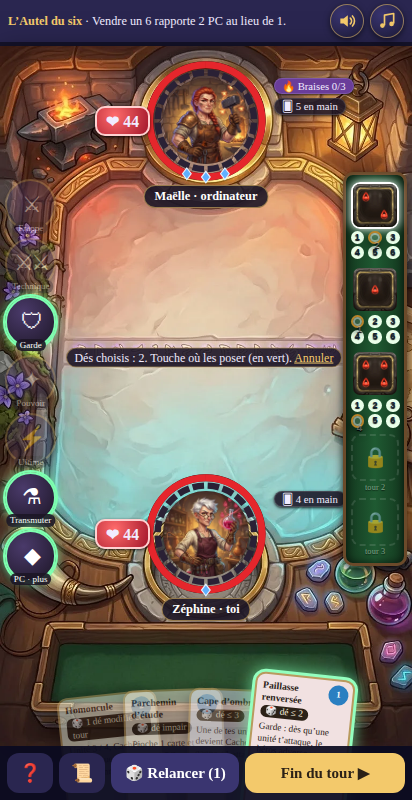
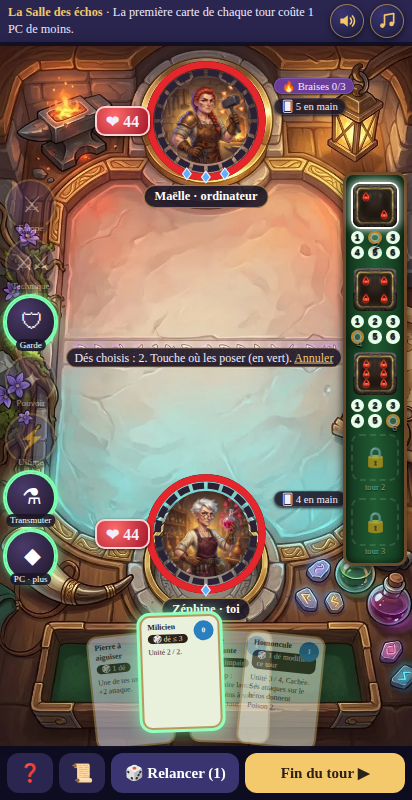
Guilde : main posée en entier dans le bac du bas ; prompt 7 (planche d'interface Gemini)

Changed region(s): [[0.1165, 0.75, 0.9029, 0.9375], [0.0, 0.0, 0.7573, 0.0625], [0.8447, 0.3438, 0.9903, 0.5625]]

diff --git a/essais/dice-arena/prompts-interface.html b/essais/dice-arena/prompts-interface.html
@@ -84,6 +84,20 @@ const P = [
    x:`Edit the attached image. Keep EXACTLY everything else the same: the same night sky with stars, the same glowing swirling cloud portal with the castle and the green land inside, the same mossy stone ruins, the same mountains and mist, the same colors, light and painting style, the same framing. Change only two things: 1) completely REMOVE every glowing rune symbol around the portal (all the anvils, leaves, flames, stars, waves, drops and sun symbols), and paint over them with the same sky, clouds and soft glow of the portal, so the portal is surrounded only by sky and soft light; 2) completely REMOVE the word START at the bottom and paint over it with the same mist and ruins. No text, no letters, no symbols, no logo, no signature, no watermark.` },
  { t:'2. Le monde de la Guilde : les lieux des modes', j:'Joignez le portrait final de Gorm (modèle de style).',
    x:`Using the attached image only as a strict style reference (same digital painted style, same soft outlines, same warm golden light with cool magical highlights, same level of detail), paint the MAIN HUB of a mobile fantasy card-and-dice game, tall vertical 9:16 format, seen from slightly above like a colorful storybook map. A vibrant, magical floating land with lush hills, glowing rune stones, waterfalls falling into the clouds and winding paths. Around a central plaza with a softly glowing rune portal, place FIVE clearly separated landmarks, well spaced so each can be tapped: a round stone dueling arena with glowing rune circles on its floor (upper left); a dark ruined dungeon gate carved into a cliff, with torches (upper right); a wooden flying airship with patched sails docked at a cliff edge (middle right); a tall slender library tower whose windows glow with floating cards (middle left); and, at the bottom, a small camp with a campfire and two empty banners, half hidden in soft mist. Above each landmark leave a little empty sky or ground for a label. Bright, colorful, joyful and epic, generous shapes, visible brush texture, readable on a phone. No text, no letters, no numbers, no logo, no signature, no watermark.` },
+ { t:'7. NOUVEAU (11/11) · La planche d’interface : médaillons d’action, cœur, cristal, bouclier, cadre du portrait', j:'Joignez votre plateau v2 (modèle de style) : https://demo-hub.elvanys.fr/essais/dice-arena/decor/plateau-duel-v2-essai1.jpg — Fichier attendu : interface-kit.jpg (Claude découpe chaque pièce).',
+   x:`Using the attached image only as a STYLE reference (same digital painted style, same carved stone, wood and gold, same warm golden light with violet and turquoise magic), paint a GAME UI KIT SHEET on a PLAIN PURE WHITE background, square format 1:1. Every element is SEPARATE, with a lot of white space around it, nothing touching, no shadow on the background, seen straight from the front, flat on the sheet. Arrange them in a clean grid:
+ROW 1 and ROW 2: EIGHT round ACTION MEDALLIONS, all exactly the same size and the same frame (a round carved grey stone disc with a thin gold rim, slightly domed), each with ONE engraved, glowing symbol in the middle, big and readable at small size:
+ 1. a single sword (strike), golden glow;
+ 2. three small swords in a rising row (combo), golden glow;
+ 3. a round shield (guard), cool blue glow;
+ 4. a four-pointed magic star (power), violet glow;
+ 5. a lightning bolt (ultimate), bright gold glow;
+ 6. an alchemy flask (special action), green glow;
+ 7. a faceted blue crystal (energy), blue glow;
+ 8. two clasped hands (team), warm glow.
+ROW 3: a glossy RUBY HEART gem with a small gold setting (life); a faceted BLUE CRYSTAL diamond shape with a small gold setting (energy points); a small steel and gold SHIELD badge (armor); a small blank dark violet RIBBON banner with gold edges (label).
+ROW 4: one large ornate ROUND PORTRAIT FRAME: a thick gold and carved stone ring with small rune stones set around it like a crown, the center completely EMPTY and pure white (a hero portrait goes there), the ring itself left fairly plain and dark in its middle band (the game draws its life and power gauges there).
+Symbols only, no text, no letters, no numbers, no logo, no signature, no watermark.` },
  { t:'5 ter. CORRECTION de votre 1er essai (11/11) : bac des dés pris dans le décor, rubans du bas retirés, 7 emplacements à gauche', j:'Joignez VOTRE essai : https://demo-hub.elvanys.fr/essais/dice-arena/decor/plateau-duel-v2-essai1.jpg — Fichier attendu : plateau-duel-v2.jpg',
    x:`Edit the attached image. Keep EXACTLY the same board: same framing, same camera angle, same painting style, same two round alcoves (top and bottom), same central play area with its line of glowing runes, same bottom card ledge, same corner props (anvil, lantern, horn, candle, flasks, rune stones), same colors. Make ONLY these changes:
 1. RIGHT SIDE: the green felt dice tray must not look like a separate box laid on top of the board. Rebuild it as part of the right wooden frame: the carved wood border widens and the tray is SUNK INTO it, like a long recessed channel carved in the frame, with the same carved gold trim and the same stone and wood as the frame around the play area and the alcoves; the frame curves around it smoothly, no drop shadow under it, no separate wooden box edge. Keep it at the same place and size, dark green felt, empty, with its faint square slots.

diff --git a/essais/dice-arena/duel.html b/essais/dice-arena/duel.html
@@ -387,7 +387,10 @@
   .sacoria { font-size:2cqw; }
   .unique .d.cache::after { top:2.5cqw; font-size:6cqw; }
   /* la main en éventail, posée sur le bas du plateau */
-  .unique .main { left:0; right:0; bottom:0; height:12cqh; max-width:none; z-index:6; }
+  /* la main posée EN ENTIER dans le bac du bas (cartes de 80 px, toucher = la carte en grand) */
+  .unique .main { left:0; right:0; bottom:0; height:122px; max-width:none; z-index:6; }
+  .unique .main .c { bottom:4px; width:80px; height:114px; font-size:.5em; transform-origin:50% 100%; }
+  .unique .main .c.vue { width:164px; height:auto; min-height:206px; font-size:.8em; }
   .bas { max-width:560px; margin:0 auto; height:54px; z-index:8; }
   .bas .b0 { width:46px; padding:0; font-size:18px; }
   .bas .b1 { flex:1; } .bas .b2 { flex:1.3; }
@@ -816,13 +819,13 @@ document.addEventListener('click', e => { if (carteVue !== null && !e.target.clo
 function mainEnEventail(J) {
   const n = J.main.length; if (!n) return '<i style="color:#c9c1ea;position:absolute;left:0;right:0;text-align:center;top:60px">Main vide</i>';
   if (carteVue !== null && carteVue >= n) carteVue = null;
-  const mil = (n - 1) / 2, pas = n > 1 ? Math.min(54, 270 / (n - 1)) : 0, ang = n > 1 ? Math.min(4, 18 / (n - 1)) : 0;
+  const mil = (n - 1) / 2, pas = n > 1 ? Math.min(46, 240 / (n - 1)) : 0, ang = n > 1 ? Math.min(4, 18 / (n - 1)) : 0;
   return J.main.map((k, i) => {
     const c = CARTES[k], ok = sel.length && permis(J, k, vals(sel), sel), vue = carteVue === i, d = i - mil;
-    const style = vue ? 'left:calc(50% - 82px);transform:translateY(-170px);z-index:60'
-      : `left:calc(50% - 50px + ${d * pas}px);transform:translateY(${Math.round(d * d * 2) - (ok ? 18 : 0)}px) rotate(${d * ang}deg);z-index:${ok ? 40 + i : i + 1}`;
+    const style = vue ? 'left:calc(50% - 82px);transform:translateY(-110px);z-index:60'
+      : `left:calc(50% - 40px + ${d * pas}px);transform:translateY(${Math.round(d * d * 2) - (ok ? 14 : 0)}px) rotate(${d * ang}deg);z-index:${ok ? 40 + i : i + 1}`;
     const pied = vue ? `<div class="jouer">${ok ? '👆 Touche encore pour la jouer' : sel.length ? 'Ces dés ne conviennent pas' : 'Choisis d’abord tes dés'}</div>` : '';
-    if (typeof CADRES_OK !== 'undefined' && CADRES_OK.includes(CADRE_DE(k))) return `<div class="c neuve ${ok ? 'ok' : sel.length ? 'non' : ''} ${vue ? 'vue' : ''}" style="${style}" onclick="toucheCarte(${i})">${carteGuilde(k, { w:vue ? 164 : 100, cout:coutCarte(J, k), pied:vue ? `<div class="cg-pied">${ok ? '👆 Touche encore pour la jouer' : sel.length ? 'Ces dés ne conviennent pas' : 'Choisis d’abord tes dés'}</div>` : '' })}</div>`;
+    if (typeof CADRES_OK !== 'undefined' && CADRES_OK.includes(CADRE_DE(k))) return `<div class="c neuve ${ok ? 'ok' : sel.length ? 'non' : ''} ${vue ? 'vue' : ''}" style="${style}" onclick="toucheCarte(${i})">${carteGuilde(k, { w:vue ? 164 : 80, cout:coutCarte(J, k), pied:vue ? `<div class="cg-pied">${ok ? '👆 Touche encore pour la jouer' : sel.length ? 'Ces dés ne conviennent pas' : 'Choisis d’abord tes dés'}</div>` : '' })}</div>`;
     return `<div class="c ${c.t}2 ${ok ? 'ok' : sel.length ? 'non' : ''} ${vue ? 'vue' : ''}" style="${style}" onclick="toucheCarte(${i})"><span class="cout">${coutCarte(J, k)}</span><div class="n">${c.n}</div><span class="cd">🎲 ${c.txt}</span><div class="dd">${c.d}</div>${pied}</div>`;
   }).join('');
 }
